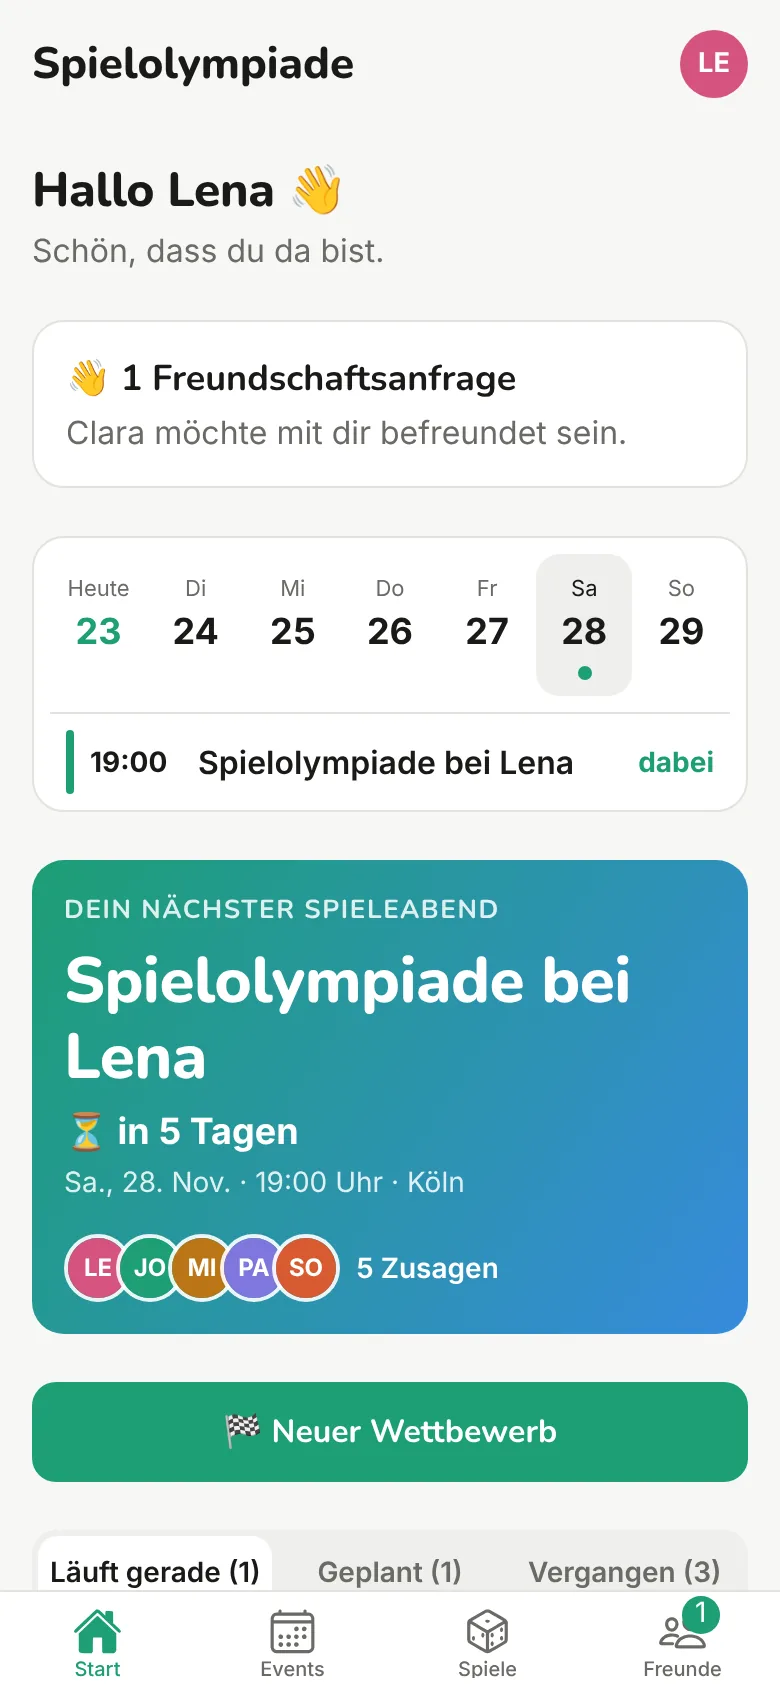
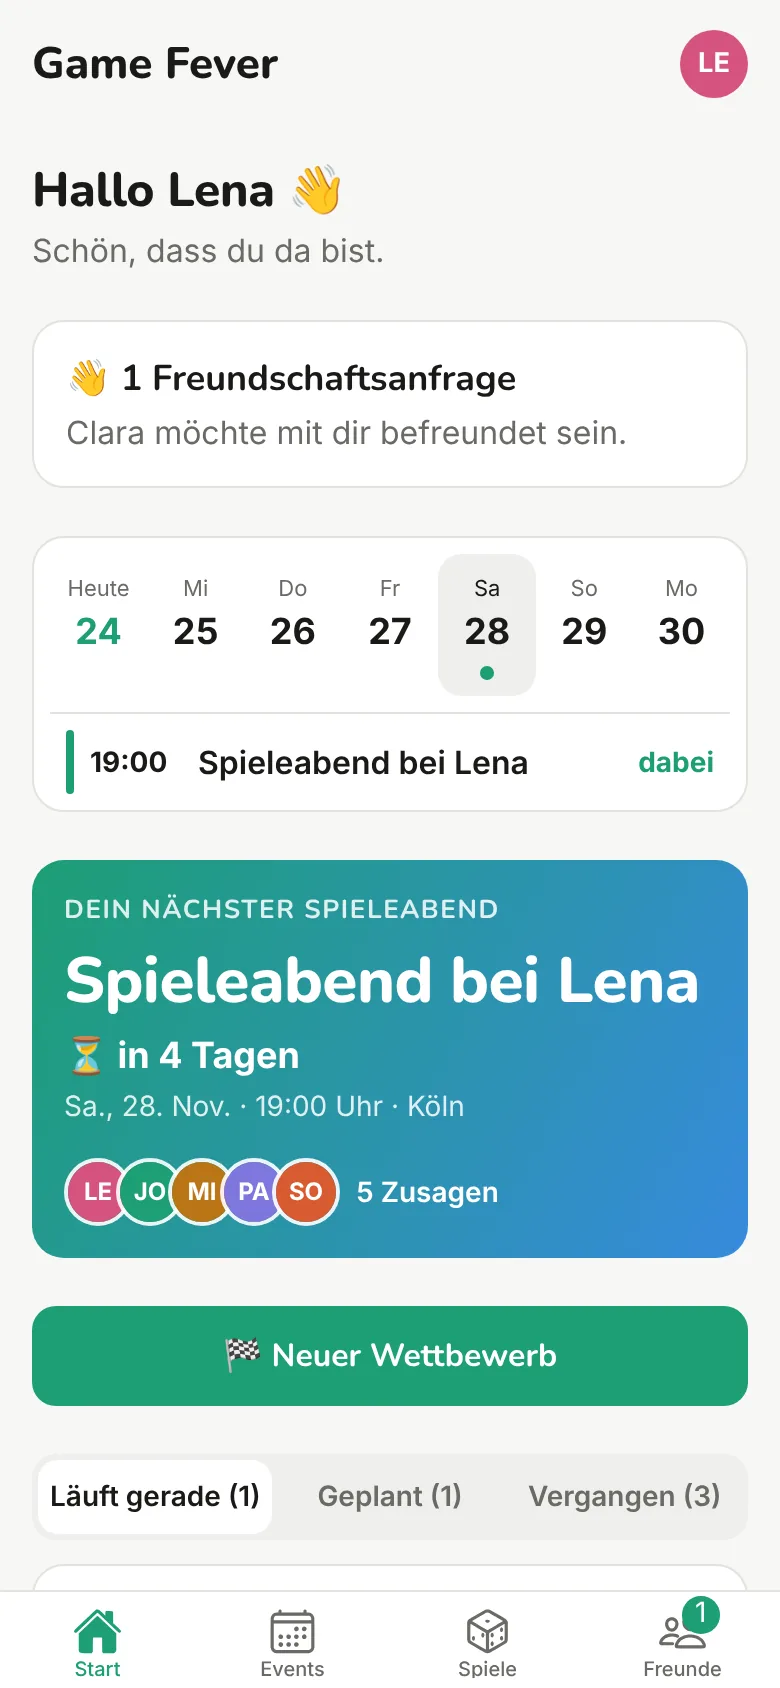
Umbenennung in Game Fever, neue Domain www.gamefeverapp.de
- Name, Titel und Texte auf allen Seiten; "Olympiade" entfernt
- CNAME auf www.gamefeverapp.de, Kontakt kontakt@gamefeverapp.de
- Screenshots mit neuem Namen neu aufgenommen

Claude-Session: https://claude.ai/code/session_0178QkPQtuq7mhGBgM1ok4cj

diff --git a/datenschutz.html b/datenschutz.html
@@ -3,7 +3,7 @@
 <head>
   <meta charset="UTF-8">
   <meta name="viewport" content="width=device-width, initial-scale=1.0">
-  <title>Datenschutzerklärung – Spielolympiade</title>
+  <title>Datenschutzerklärung – Game Fever</title>
   <link rel="icon" type="image/png" href="favicon.png">
   <link rel="stylesheet" href="fonts/fonts.css">
   <style>
@@ -44,7 +44,7 @@
 </head>
 <body>
   <nav>
-    <a href="index.html" class="nav-logo"><img src="logo.webp" style="width:28px;height:28px;object-fit:contain;"> Spielolympiade</a>
+    <a href="index.html" class="nav-logo"><img src="logo.webp" style="width:28px;height:28px;object-fit:contain;"> Game Fever</a>
     <a href="index.html" class="nav-back">← Zurück</a>
   </nav>
 
@@ -70,7 +70,7 @@
         <li><a href="#loeschung">Löschung des Kontos</a></li>
         <li><a href="#weitergabe">Keine Weitergabe, kein Tracking, keine Werbung</a></li>
         <li><a href="#sicherheit">Datensicherheit</a></li>
-        <li><a href="#website">Website spielolympiade.de</a></li>
+        <li><a href="#website">Website gamefeverapp.de</a></li>
         <li><a href="#email">Kontaktaufnahme per E-Mail</a></li>
         <li><a href="#rechte">Deine Rechte</a></li>
         <li><a href="#beschwerde">Beschwerderecht</a></li>
@@ -80,7 +80,7 @@
 
     <h2 id="verantwortlicher">1. Verantwortlicher</h2>
     <p>Verantwortlich für die Datenverarbeitung im Sinne der Datenschutz-Grundverordnung (DSGVO):</p>
-    <div class="placeholder">[Vor- und Nachname]<br>[Straße, Hausnummer]<br>[PLZ, Ort]<br>E-Mail: <a href="mailto:kontakt@beispiel.de">kontakt@beispiel.de</a></div>
+    <div class="placeholder">[Vor- und Nachname]<br>[Straße, Hausnummer]<br>[PLZ, Ort]<br>E-Mail: <a href="mailto:kontakt@gamefeverapp.de">kontakt@gamefeverapp.de</a></div>
 
     <h2 id="ueberblick">2. Das Wichtigste in Kürze</h2>
     <ul>
@@ -94,8 +94,8 @@
     <h2 id="geltungsbereich">3. Geltungsbereich</h2>
     <p>Diese Datenschutzerklärung gilt für:</p>
     <ul>
-      <li>die App „Spielolympiade“ – derzeit in einer Testphase und noch nicht in einem App-Store veröffentlicht,</li>
-      <li>die Website <a href="https://www.spielolympiade.de">www.spielolympiade.de</a> einschließlich der Seiten zum Bestätigen der E-Mail-Adresse und zum Zurücksetzen des Passworts.</li>
+      <li>die App „Game Fever: The Game Night Planner“ (kurz „Game Fever“) – derzeit in einer Testphase und noch nicht in einem App-Store veröffentlicht,</li>
+      <li>die Website <a href="https://www.gamefeverapp.de">www.gamefeverapp.de</a> einschließlich der Seiten zum Bestätigen der E-Mail-Adresse und zum Zurücksetzen des Passworts.</li>
     </ul>
 
     <h2 id="konto">4. Konto und Anmeldung</h2>
@@ -163,7 +163,7 @@
     <p>Sobald die App im Google Play Store veröffentlicht ist, verarbeitet Google beim Herunterladen Daten wie dein Google-Konto und den Zeitpunkt des Downloads. Darauf haben wir keinen Einfluss; es gelten die Datenschutzbestimmungen von Google (<a href="https://policies.google.com/privacy" rel="noopener">policies.google.com/privacy</a>).</p>
 
     <h2 id="loeschung">12. Löschung des Kontos</h2>
-    <p>Du kannst dein Konto jederzeit selbst löschen: in der App (Profil → „Konto löschen“) oder ohne App auf <a href="konto-loeschen/">spielolympiade.de/konto-loeschen</a>, nachdem du dich dort mit E-Mail und Passwort angemeldet hast. Hast du keinen Zugang mehr, schreib uns über die Adresse im Impressum; wir löschen das Konto dann innerhalb eines Monats. In jedem Fall passiert Folgendes sofort:</p>
+    <p>Du kannst dein Konto jederzeit selbst löschen: in der App (Profil → „Konto löschen“) oder ohne App auf <a href="konto-loeschen/">gamefeverapp.de/konto-loeschen</a>, nachdem du dich dort mit E-Mail und Passwort angemeldet hast. Hast du keinen Zugang mehr, schreib uns über die Adresse im Impressum; wir löschen das Konto dann innerhalb eines Monats. In jedem Fall passiert Folgendes sofort:</p>
     <h3>Gelöscht wird</h3>
     <ul>
       <li>E-Mail-Adresse, Passwort, Alias, Anzeigename und Profilbild,</li>
@@ -185,7 +185,7 @@
     <h2 id="sicherheit">14. Datensicherheit</h2>
     <p>Alle Verbindungen zwischen App, Website und Servern sind verschlüsselt (HTTPS/TLS). In der Datenbank regeln Zugriffsregeln für jede Tabelle, wer welche Daten lesen und ändern darf; sie gelten unabhängig von der App. Darüber hinaus treffen wir technische und organisatorische Maßnahmen gemäß Art. 32 DSGVO.</p>
 
-    <h2 id="website">15. Website spielolympiade.de</h2>
+    <h2 id="website">15. Website gamefeverapp.de</h2>
     <h3>15.1 Hosting</h3>
     <p>Die Website wird über GitHub Pages (GitHub, Inc., San Francisco, USA) bereitgestellt; die Domain wird über die Strato AG (Berlin, Deutschland) betrieben. Beim Aufruf erfasst GitHub automatisch Server-Protokolle, die folgende Daten enthalten können:</p>
     <ul>
@@ -197,7 +197,7 @@
     </ul>
     <p>Rechtsgrundlage ist Art. 6 Abs. 1 lit. f DSGVO (berechtigtes Interesse an einem sicheren und stabilen Betrieb). GitHub speichert diese Protokolle nach eigenen Angaben bis zu 90 Tage. Soweit dabei Daten in die USA übermittelt werden, ist dies durch EU-Standardvertragsklauseln bzw. das EU-U.S. Data Privacy Framework abgesichert. Weitere Informationen: <a href="https://docs.github.com/de/site-policy/privacy-policies/github-general-privacy-statement" rel="noopener">GitHub-Datenschutzerklärung</a>.</p>
     <h3>15.2 Keine Cookies, keine externen Inhalte</h3>
-    <p>Die Website setzt keine Cookies und nutzt kein Tracking. Schriftarten, Skripte und Bilder werden direkt von spielolympiade.de geladen, nicht von fremden Servern (z. B. keine Google Fonts).</p>
+    <p>Die Website setzt keine Cookies und nutzt kein Tracking. Schriftarten, Skripte und Bilder werden direkt von gamefeverapp.de geladen, nicht von fremden Servern (z. B. keine Google Fonts).</p>
     <h3>15.3 E-Mail bestätigen, Passwort zurücksetzen, Konto löschen</h3>
     <p>Die Links in den Konto-E-Mails führen auf Seiten dieser Website. Dort wird der Code aus dem Link an Supabase übermittelt, um deine E-Mail-Adresse zu bestätigen bzw. dein neues Passwort zu speichern. Auf der Seite „Konto löschen“ werden E-Mail und Passwort an Supabase übermittelt, um dich anzumelden und das Konto zu löschen. Die Anmeldung gilt nur für diesen Vorgang und wird höchstens bis zum Schließen des Tabs im Sitzungsspeicher des Browsers gehalten (kein Cookie). Rechtsgrundlage ist Art. 6 Abs. 1 lit. b DSGVO.</p>
 
@@ -220,17 +220,17 @@
     <p>Du hast das Recht, dich bei einer Datenschutz-Aufsichtsbehörde zu beschweren, insbesondere in dem Bundesland, in dem du wohnst, oder am Sitz des Verantwortlichen.</p>
 
     <h2 id="aenderungen">19. Änderungen dieser Datenschutzerklärung</h2>
-    <p>Wir passen diese Datenschutzerklärung an, wenn sich die App oder die rechtlichen Anforderungen ändern – zum Beispiel, wenn neue Funktionen wie der Barcode-Scanner hinzukommen. Die aktuelle Fassung findest du immer unter <a href="https://www.spielolympiade.de/datenschutz.html">www.spielolympiade.de/datenschutz.html</a>.</p>
+    <p>Wir passen diese Datenschutzerklärung an, wenn sich die App oder die rechtlichen Anforderungen ändern – zum Beispiel, wenn neue Funktionen wie der Barcode-Scanner hinzukommen. Die aktuelle Fassung findest du immer unter <a href="https://www.gamefeverapp.de/datenschutz.html">www.gamefeverapp.de/datenschutz.html</a>.</p>
   </div>
 
   <footer>
-    <div class="footer-logo" style="display:flex;align-items:center;gap:8px;"><img src="logo.webp" style="width:24px;height:24px;object-fit:contain;"> Spielolympiade</div>
+    <div class="footer-logo" style="display:flex;align-items:center;gap:8px;"><img src="logo.webp" style="width:24px;height:24px;object-fit:contain;"> Game Fever</div>
     <div class="footer-links">
       <a href="impressum.html">Impressum</a>
       <a href="datenschutz.html">Datenschutzerklärung</a>
       <a href="konto-loeschen/">Konto löschen</a>
     </div>
-    <p class="footer-copy">© 2026 Spielolympiade. Alle Rechte vorbehalten.</p>
+    <p class="footer-copy">© 2026 Game Fever. Alle Rechte vorbehalten.</p>
   </footer>
 </body>
 </html>

diff --git a/index.html b/index.html
@@ -3,12 +3,12 @@
 <head>
   <meta charset="UTF-8">
   <meta name="viewport" content="width=device-width, initial-scale=1.0">
-  <title>Spielolympiade – Spieleabende planen, spielen, gewinnen</title>
-  <meta name="description" content="Spielolympiade ist die App für Spieleabende mit Freunden: Abende planen, sehen wer welches Spiel hat, Wettbewerbe mit Live-Punktestand austragen und Mitspieler in der Nähe finden.">
+  <title>Game Fever: The Game Night Planner – Spieleabende planen, spielen, gewinnen</title>
+  <meta name="description" content="Game Fever ist die App für Spieleabende mit Freunden: Abende planen, sehen wer welches Spiel hat, Wettbewerbe mit Live-Punktestand austragen und Mitspieler in der Nähe finden.">
   <meta name="theme-color" content="#1D9E75">
-  <meta property="og:title" content="Spielolympiade – Spieleabende planen, spielen, gewinnen">
+  <meta property="og:title" content="Game Fever: The Game Night Planner – Spieleabende planen, spielen, gewinnen">
   <meta property="og:description" content="Die App für eure Spielerunde: planen, wer bringt was mit, Wettbewerbe mit Live-Punktestand.">
-  <meta property="og:image" content="https://www.spielolympiade.de/screenshots/app/start.webp">
+  <meta property="og:image" content="https://www.gamefeverapp.de/screenshots/app/start.webp">
   <link rel="icon" type="image/png" href="favicon.png">
   <link rel="apple-touch-icon" href="apple-touch-icon.png">
   <link rel="stylesheet" href="fonts/fonts.css">
@@ -245,7 +245,7 @@
 
   <nav aria-label="Hauptnavigation">
     <div class="breite">
-      <a href="#" class="marke"><img src="logo.webp" alt="" width="38" height="38"> Spielolympiade</a>
+      <a href="#" class="marke"><img src="logo.webp" alt="" width="38" height="38"> Game Fever</a>
       <ul class="nav-links">
         <li><a href="#idee">Idee</a></li>
         <li><a href="#funktionen">Funktionen</a></li>
@@ -261,9 +261,9 @@
   <header class="kopf">
     <div class="breite">
       <span class="etikett"><span class="punkt"></span> Testphase · Android-App in Entwicklung</span>
-      <h1>Eure Spielerunde.<br>Ein Abend, <em>eine Olympiade.</em></h1>
+      <h1>Eure Spielerunde.<br>Ein Abend voller <em>Spielfieber.</em></h1>
       <p class="unterzeile">
-        Spielolympiade ist die App für Spieleabende mit Freunden: Abende planen, sehen wer welches Spiel hat,
+        Game Fever ist die App für Spieleabende mit Freunden: Abende planen, sehen wer welches Spiel hat,
         Wettbewerbe mit Live-Punktestand austragen – und am Ende wissen, wer den Titel holt.
       </p>
       <div class="knoepfe">
@@ -290,14 +290,14 @@
             Welche Spiele haben wir überhaupt? Das passiert heute verteilt über Gruppenchats, Zettel und Erinnerung.
           </p>
           <p>
-            <strong>Spielolympiade bringt das an einen Ort.</strong> Ihr plant den Abend gemeinsam, seht auf einen Blick,
+            <strong>Game Fever bringt das an einen Ort.</strong> Ihr plant den Abend gemeinsam, seht auf einen Blick,
             welche Spiele die Runde zusammen hat, und spielt am Abend selbst einen Wettbewerb – mit Spielplan,
             Punkten und Siegertreppchen auf dem Handy statt auf dem Bierdeckel.
           </p>
           <p>
-            <strong>Warum der Name?</strong> Angefangen hat alles mit unserer eigenen „Spielolympiade“: mehrere kurze Spiele
-            nacheinander, jedes Spiel gibt Punkte, wer am Ende vorne liegt, gewinnt. Diese Idee steckt bis heute im Kern der App –
-            in der App heißt sie <em>Mehrkampf</em>. Drumherum ist alles entstanden, was ein Spieleabend sonst noch braucht.
+            <strong>Wie alles anfing:</strong> mit unseren eigenen Spieleabenden – mehrere kurze Spiele nacheinander,
+            jedes Spiel gibt Punkte, wer am Ende vorne liegt, gewinnt. Genau dieses Spielfieber steckt bis heute im Kern der App –
+            dort heißt es <em>Mehrkampf</em>. Drumherum ist alles entstanden, was ein Spieleabend sonst noch braucht.
           </p>
         </div>
         <div class="ziele">
@@ -332,7 +332,7 @@
         <div class="begriff">
           <div class="symbol">🏅</div>
           <h3>Mehrkampf</h3>
-          <div class="auch">die klassische Spielolympiade</div>
+          <div class="auch">mehrere Spiele, ein Sieger</div>
           <p>Mehrere Spiele nacheinander. Jeder Sieg bringt Punkte – auf Wunsch zählen spätere Spiele mehr.</p>
         </div>
         <div class="begriff">
@@ -420,7 +420,7 @@
         <div class="art">
           <div class="symbol">🏅</div>
           <h3>Mehrkampf</h3>
-          <div class="beispiel">die klassische Spielolympiade</div>
+          <div class="beispiel">mehrere Spiele, ein Sieger</div>
           <p>Mehrere Spiele nacheinander, z. B. Skyjo, Jenga und Dart. Wer gewinnt, sammelt Punkte. Bei „Punkte steigen“ zählt das letzte Spiel am meisten – es bleibt bis zum Schluss spannend.</p>
         </div>
         <div class="art">
@@ -454,7 +454,7 @@
       <p class="ueber">Spielekatalog</p>
       <h2>Ein Katalog, den alle gemeinsam pflegen.</h2>
       <p class="einleitung">
-        Damit niemand jedes Spiel von Hand eintippen muss, baut Spielolympiade einen gemeinsamen Katalog auf –
+        Damit niemand jedes Spiel von Hand eintippen muss, baut Game Fever einen gemeinsamen Katalog auf –
         vom Brettspiel-Klassiker bis zum Partyspiel ohne Material.
       </p>
       <div class="katalog">
@@ -515,7 +515,7 @@
     <div class="breite">
       <p class="ueber">Stand der Entwicklung</p>
       <h2>Wo wir gerade stehen.</h2>
-      <p class="einleitung">Spielolympiade ist ein privates Projekt und wird gerade im Freundeskreis getestet. Noch ist die App nicht in den Stores.</p>
+      <p class="einleitung">Game Fever ist ein privates Projekt und wird gerade im Freundeskreis getestet. Noch ist die App nicht in den Stores.</p>
       <div class="stand">
         <div class="phase">
           <div class="wann">Fertig</div>
@@ -561,14 +561,15 @@
 
   <footer>
     <div class="breite">
-      <img src="logo.webp" alt="Spielolympiade-Logo" width="72" height="72" loading="lazy">
-      <div class="name">Spielolympiade</div>
+      <img src="logo.webp" alt="Game-Fever-Logo" width="72" height="72" loading="lazy">
+      <div class="name">Game Fever</div>
+      <div>The Game Night Planner</div>
       <div class="links">
         <a href="impressum.html">Impressum</a>
         <a href="datenschutz.html">Datenschutz</a>
         <a href="konto-loeschen/">Konto löschen</a>
       </div>
-      <div>© 2026 Spielolympiade · Screenshots mit Beispieldaten</div>
+      <div>© 2026 Game Fever · Screenshots mit Beispieldaten</div>
     </div>
   </footer>
 

diff --git a/konto-loeschen/index.html b/konto-loeschen/index.html
@@ -3,8 +3,8 @@
 <head>
   <meta charset="UTF-8">
   <meta name="viewport" content="width=device-width, initial-scale=1.0">
-  <title>Spielolympiade – Konto löschen</title>
-  <meta name="description" content="So löschst du dein Spielolympiade-Konto – in der App oder direkt hier auf der Website.">
+  <title>Game Fever – Konto löschen</title>
+  <meta name="description" content="So löschst du dein Game-Fever-Konto – in der App oder direkt hier auf der Website.">
   <link rel="icon" type="image/png" href="../favicon.png">
   <link rel="stylesheet" href="../fonts/fonts.css">
   <script src="../vendor/supabase-js-2.119.2.js"></script>
@@ -326,7 +326,7 @@
   <nav>
     <a href="/" class="nav-logo">
       <img src="../logo.webp" alt="Logo">
-      Spielolympiade
+      Game Fever
     </a>
   </nav>
 
@@ -345,7 +345,7 @@
       <a href="../datenschutz.html">Datenschutzerklärung</a>
       <a href="./">Konto löschen</a>
     </div>
-    <p class="footer-copy">© 2026 Spielolympiade. Alle Rechte vorbehalten.</p>
+    <p class="footer-copy">© 2026 Game Fever. Alle Rechte vorbehalten.</p>
   </footer>
 
   <script>
@@ -448,7 +448,7 @@
       const email = document.getElementById('email').value.trim();
       if (!email) return meldung('Gib zuerst deine E-Mail-Adresse ein.');
       const { error } = await client.auth.resetPasswordForEmail(email, {
-        redirectTo: 'https://www.spielolympiade.de/reset-password',
+        redirectTo: 'https://www.gamefeverapp.de/reset-password',
       });
       if (error) return meldung(fehlertext(error));
       meldung('Falls ein Konto zu dieser Adresse existiert, haben wir dir einen Link zum Zurücksetzen geschickt.', 'ok');
@@ -493,7 +493,7 @@
         <div class="invalid-state">
           <div class="card-icon">✅</div>
           <h1>Konto gelöscht</h1>
-          <p class="card-sub">Dein Spielolympiade-Konto wurde gelöscht. Wenn die App noch auf deinem Handy installiert ist, kannst du sie einfach deinstallieren.</p>
+          <p class="card-sub">Dein Game-Fever-Konto wurde gelöscht. Wenn die App noch auf deinem Handy installiert ist, kannst du sie einfach deinstallieren.</p>
         </div>`);
     }
 

diff --git a/impressum.html b/impressum.html
@@ -3,7 +3,7 @@
 <head>
   <meta charset="UTF-8">
   <meta name="viewport" content="width=device-width, initial-scale=1.0">
-  <title>Impressum – Spielolympiade</title>
+  <title>Impressum – Game Fever</title>
   <link rel="icon" type="image/png" href="favicon.png">
   <link rel="stylesheet" href="fonts/fonts.css">
   <style>
@@ -34,7 +34,7 @@
 </head>
 <body>
   <nav>
-    <a href="index.html" class="nav-logo"><img src="logo.webp" style="width:28px;height:28px;object-fit:contain;"> Spielolympiade</a>
+    <a href="index.html" class="nav-logo"><img src="logo.webp" style="width:28px;height:28px;object-fit:contain;"> Game Fever</a>
     <a href="index.html" class="nav-back">← Zurück</a>
   </nav>
 
@@ -50,7 +50,7 @@
     </div>
 
     <h2>Kontakt</h2>
-    <p>E-Mail: <a href="mailto:kontakt@beispiel.de">kontakt@beispiel.de</a></p>
+    <p>E-Mail: <a href="mailto:kontakt@gamefeverapp.de">kontakt@gamefeverapp.de</a></p>
     <p>Telefon: [XXXXXXXXXXXXXXXXXXXXXXXX]</p>
 
     <h2>EU-Streitschlichtung</h2>
@@ -66,13 +66,13 @@
   </div>
 
   <footer>
-    <div class="footer-logo" style="display:flex;align-items:center;gap:8px;"><img src="logo.webp" style="width:24px;height:24px;object-fit:contain;"> Spielolympiade</div>
+    <div class="footer-logo" style="display:flex;align-items:center;gap:8px;"><img src="logo.webp" style="width:24px;height:24px;object-fit:contain;"> Game Fever</div>
     <div class="footer-links">
       <a href="impressum.html">Impressum</a>
       <a href="datenschutz.html">Datenschutzerklärung</a>
       <a href="konto-loeschen/">Konto löschen</a>
     </div>
-    <p class="footer-copy">© 2026 Spielolympiade. Alle Rechte vorbehalten.</p>
+    <p class="footer-copy">© 2026 Game Fever. Alle Rechte vorbehalten.</p>
   </footer>
 </body>
 </html>

diff --git a/reset-password/index.html b/reset-password/index.html
@@ -3,7 +3,7 @@
 <head>
   <meta charset="UTF-8">
   <meta name="viewport" content="width=device-width, initial-scale=1.0">
-  <title>Spielolympiade – Passwort zurücksetzen</title>
+  <title>Game Fever – Passwort zurücksetzen</title>
   <link rel="icon" type="image/png" href="../favicon.png">
   <link rel="stylesheet" href="../fonts/fonts.css">
   <script src="../vendor/supabase-js-2.119.2.js"></script>
@@ -270,7 +270,7 @@
   <nav>
     <a href="/" class="nav-logo">
       <img src="../logo.webp" alt="Logo">
-      Spielolympiade
+      Game Fever
     </a>
   </nav>
 
@@ -286,7 +286,7 @@
       <a href="../datenschutz.html">Datenschutzerklärung</a>
       <a href="../konto-loeschen/">Konto löschen</a>
     </div>
-    <p class="footer-copy">© 2026 Spielolympiade. Alle Rechte vorbehalten.</p>
+    <p class="footer-copy">© 2026 Game Fever. Alle Rechte vorbehalten.</p>
   </footer>
 
   <script>
@@ -355,7 +355,7 @@
         <div class="invalid-state">
           <div class="card-icon">✅</div>
           <h1>Passwort geändert</h1>
-          <p class="card-sub">Du kannst dich jetzt in der Spielolympiade-App mit deinem neuen Passwort anmelden. Dieses Fenster kannst du schließen.</p>
+          <p class="card-sub">Du kannst dich jetzt in der Game-Fever-App mit deinem neuen Passwort anmelden. Dieses Fenster kannst du schließen.</p>
         </div>`);
     }
 
@@ -363,7 +363,7 @@
       zeige(`
         <div class="card-icon">🔑</div>
         <h1>Neues Passwort</h1>
-        <p class="card-sub">Wähle ein sicheres Passwort für dein Spielolympiade-Konto.</p>
+        <p class="card-sub">Wähle ein sicheres Passwort für dein Game-Fever-Konto.</p>
 
         <form id="formular" novalidate>
           <div class="field">

diff --git a/confirm/index.html b/confirm/index.html
@@ -3,7 +3,7 @@
 <head>
   <meta charset="UTF-8">
   <meta name="viewport" content="width=device-width, initial-scale=1.0">
-  <title>Spielolympiade – E-Mail bestätigen</title>
+  <title>Game Fever – E-Mail bestätigen</title>
   <link rel="icon" type="image/png" href="../favicon.png">
   <link rel="stylesheet" href="../fonts/fonts.css">
   <script src="../vendor/supabase-js-2.119.2.js"></script>
@@ -139,7 +139,7 @@
   <nav>
     <a href="/" class="nav-logo">
       <img src="../logo.webp" alt="Logo">
-      Spielolympiade
+      Game Fever
     </a>
   </nav>
 
@@ -157,7 +157,7 @@
       <a href="../datenschutz.html">Datenschutzerklärung</a>
       <a href="../konto-loeschen/">Konto löschen</a>
     </div>
-    <p class="footer-copy">© 2026 Spielolympiade. Alle Rechte vorbehalten.</p>
+    <p class="footer-copy">© 2026 Game Fever. Alle Rechte vorbehalten.</p>
   </footer>
 
   <script>
@@ -206,7 +206,7 @@
       }
       const text = type === 'email_change'
         ? 'Deine neue E-Mail-Adresse ist bestätigt. Du kannst dieses Fenster schließen.'
-        : 'Dein Konto ist aktiviert. Öffne die Spielolympiade-App und melde dich an.';
+        : 'Dein Konto ist aktiviert. Öffne die Game-Fever-App und melde dich an.';
       zeige('🏆', 'E-Mail bestätigt!', text, { text: '✓ Erfolgreich bestätigt', art: 'success' });
     }
 

diff --git a/README.md b/README.md
@@ -1,1 +1,3 @@
-# spielolympiade-homepage
+# gamefever-homepage
+
+Homepage von Game Fever: The Game Night Planner – www.gamefeverapp.de (GitHub Pages)
